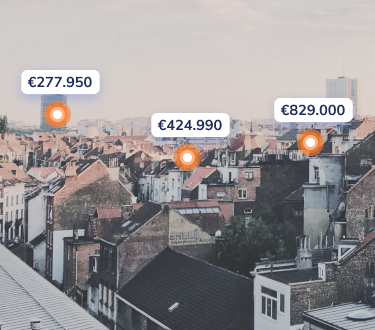
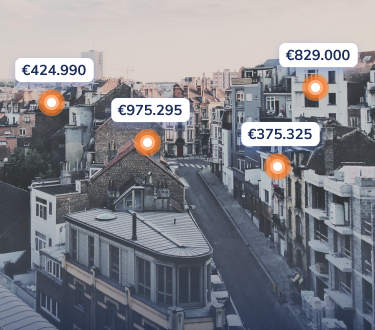
feat: update images for carousel

diff --git a/pages/main/ImagesBlock/index.tsx b/pages/main/ImagesBlock/index.tsx
@@ -9,11 +9,12 @@ import { openMainStepsAction } from '../../../actions';
 
 import { googleMapConfig } from '../../../config/siteConfigs';
 
-import FirstRightItem from '../../../assets/images/main-page/slider/first-right.png';
-import FirstLeftItem from '../../../assets/images/main-page/slider/first-left.png';
-import FirstItemMobile from '../../../assets/images/main-page/slider/first-slide-mobile.png';
-import SecondLeftItem from '../../../assets/images/main-page/slider/second-left.png';
-import SecondRightItem from '../../../assets/images/main-page/slider/second-right.png';
+import FirstSlide from '../../../assets/images/main-page/slider/first-slide.png';
+import FirstSlideMobile from '../../../assets/images/main-page/slider/first-slide-mobile.png';
+import SecondSlide from '../../../assets/images/main-page/slider/second-slide.png';
+import SecondSlideMobile from '../../../assets/images/main-page/slider/second-slide-mobile.png';
+import ThirdSlide from '../../../assets/images/main-page/slider/third-slide.png';
+import ThirdSlideMobile from '../../../assets/images/main-page/slider/third-slide-mobile.png';
 
 const ImagesBlock = () => {
   const dispatch = useDispatch();
@@ -46,26 +47,13 @@ const ImagesBlock = () => {
     <div className='image-carousel'>
       <Carousel fade controls={ false } indicators={ false } interval={ 3000 } pause={ false }>
         <Carousel.Item className='d-flex justify-content-between'>
-          {
-            isMobile
-              ? <img src={ FirstItemMobile } alt="FirstItemMobile"/>
-              :
-              <>
-                <img src={ FirstLeftItem } alt="First slide left"/>
-                <img src={ FirstRightItem } alt="First slide right"/>
-              </>
-          }
+          <img src={ isMobile ? FirstSlideMobile : FirstSlide } alt="First slide"/>
         </Carousel.Item>
         <Carousel.Item className='d-flex justify-content-between'>
-          {
-            isMobile
-              ? <img src={ FirstItemMobile } alt="FirstItemMobile"/>
-              :
-              <>
-                <img src={ SecondLeftItem } alt="Second slide left"/>
-                <img src={ SecondRightItem } alt="Second slide right"/>
-              </>
-          }
+          <img src={ isMobile ? SecondSlideMobile : SecondSlide } alt="Second slide"/>
+        </Carousel.Item>
+        <Carousel.Item className='d-flex justify-content-between'>
+          <img src={ isMobile ? ThirdSlideMobile : ThirdSlide } alt="Third slide"/>
         </Carousel.Item>
       </Carousel>
       <div className="image-carousel__popup">
